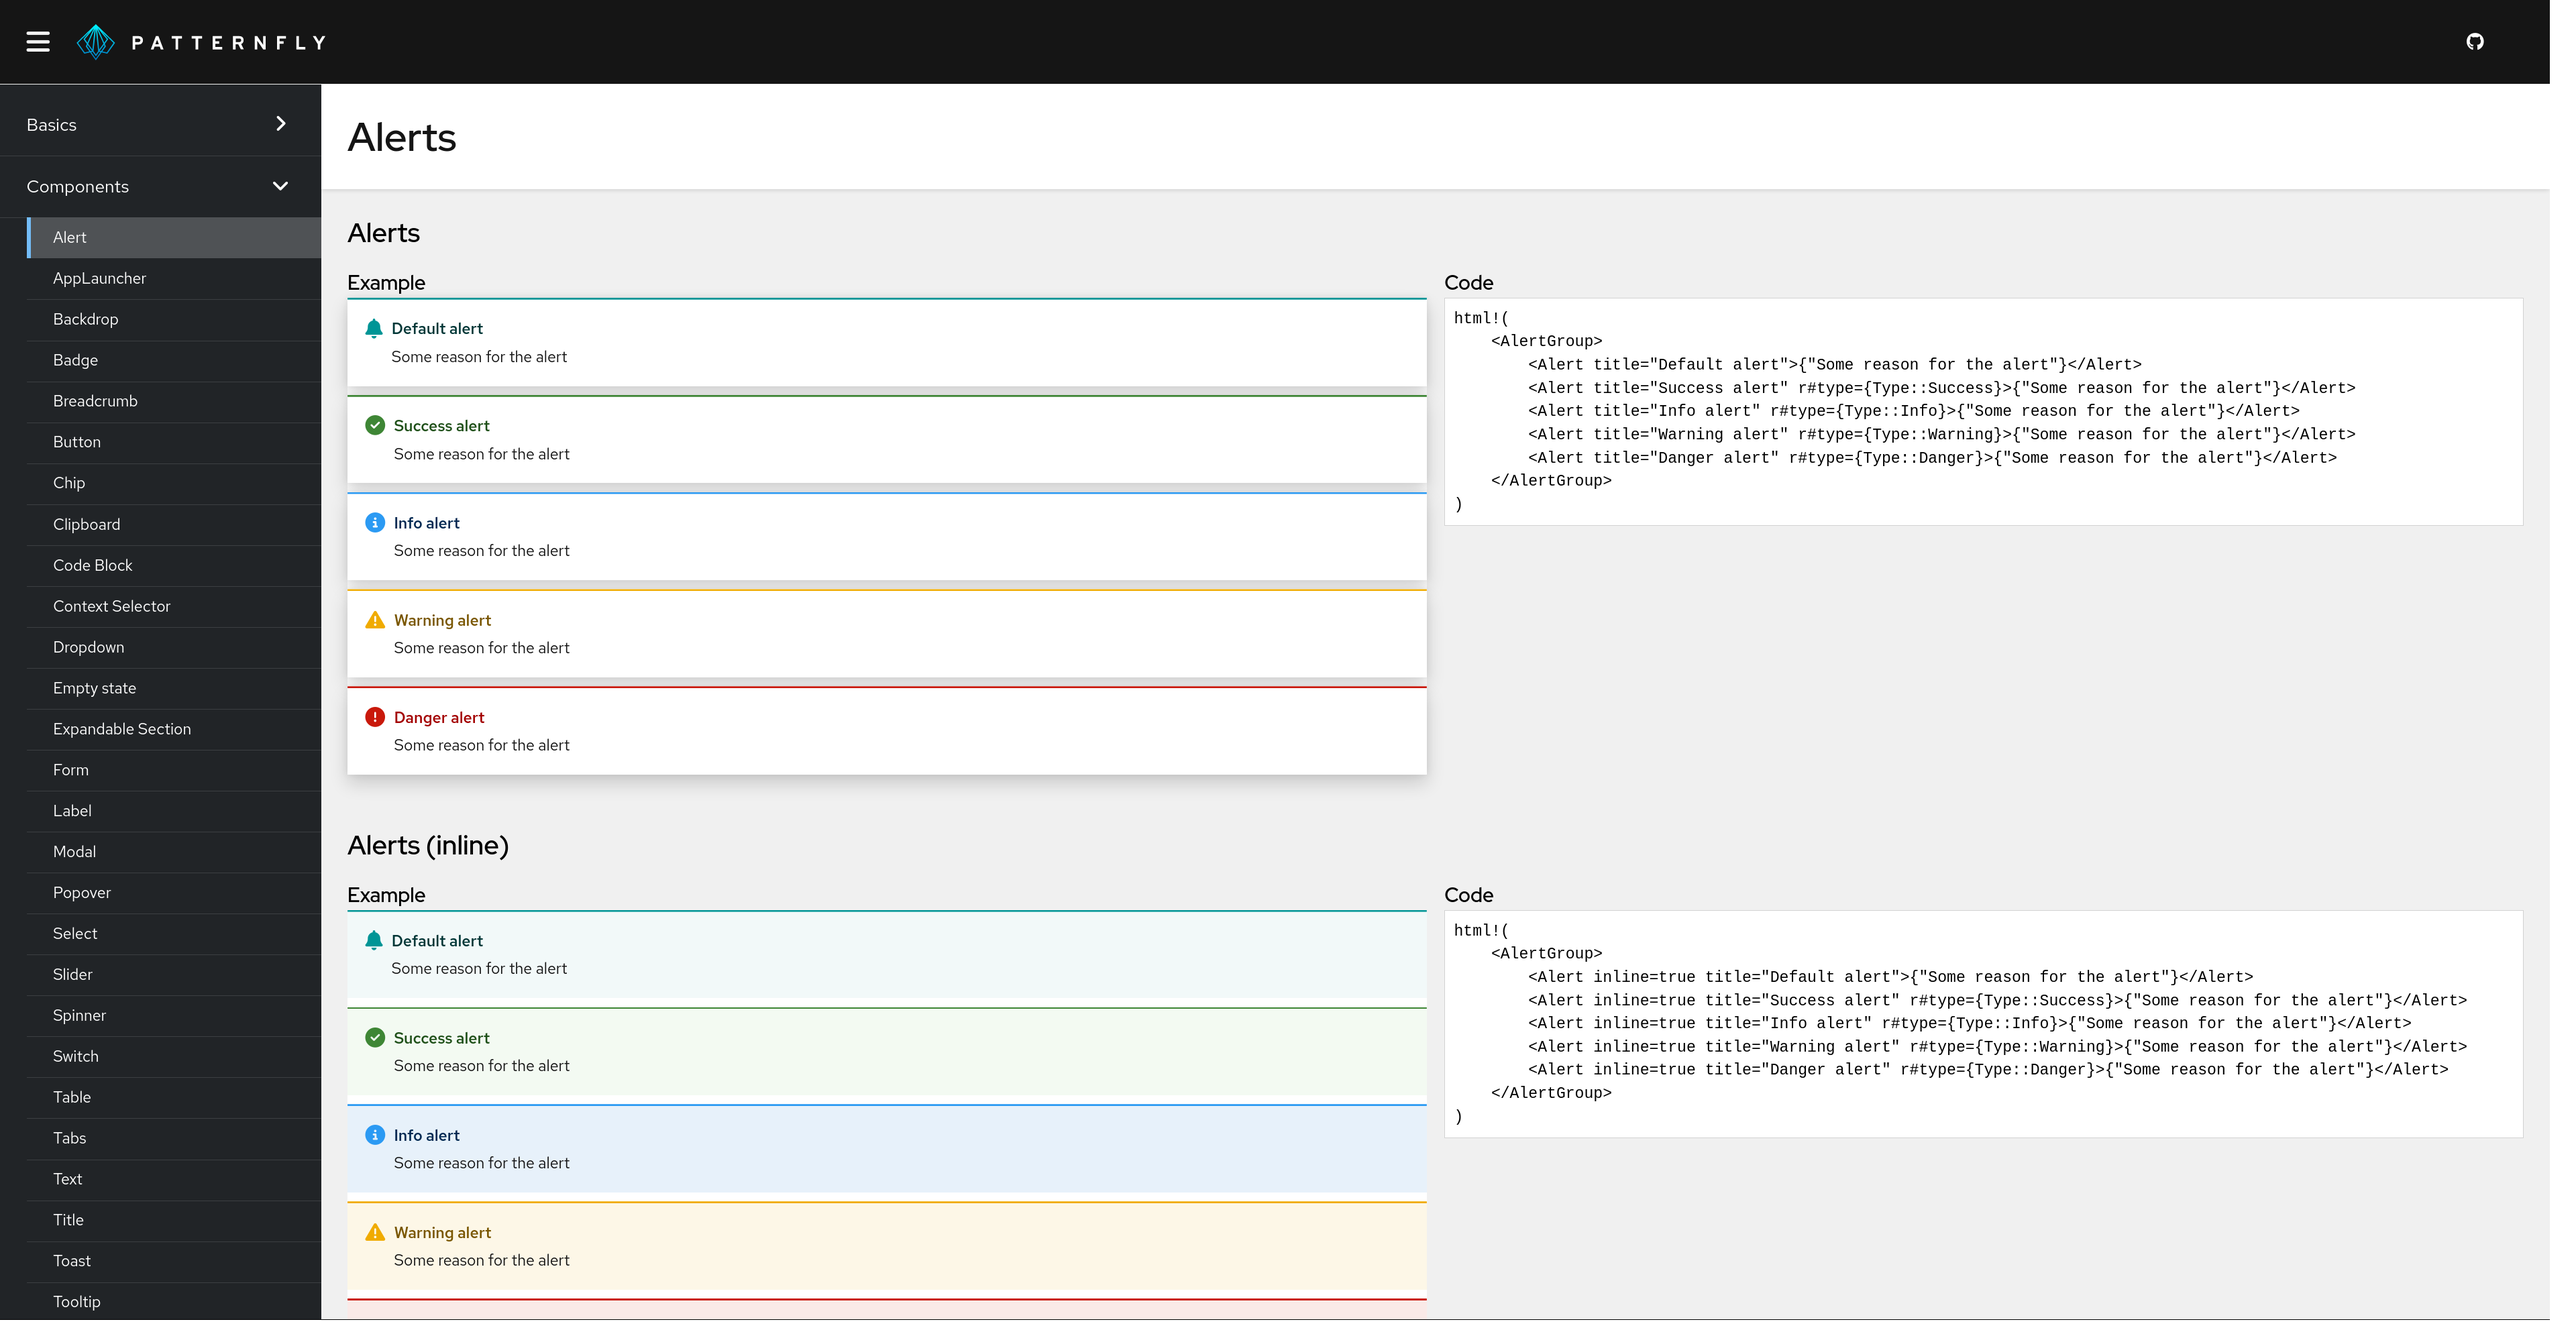
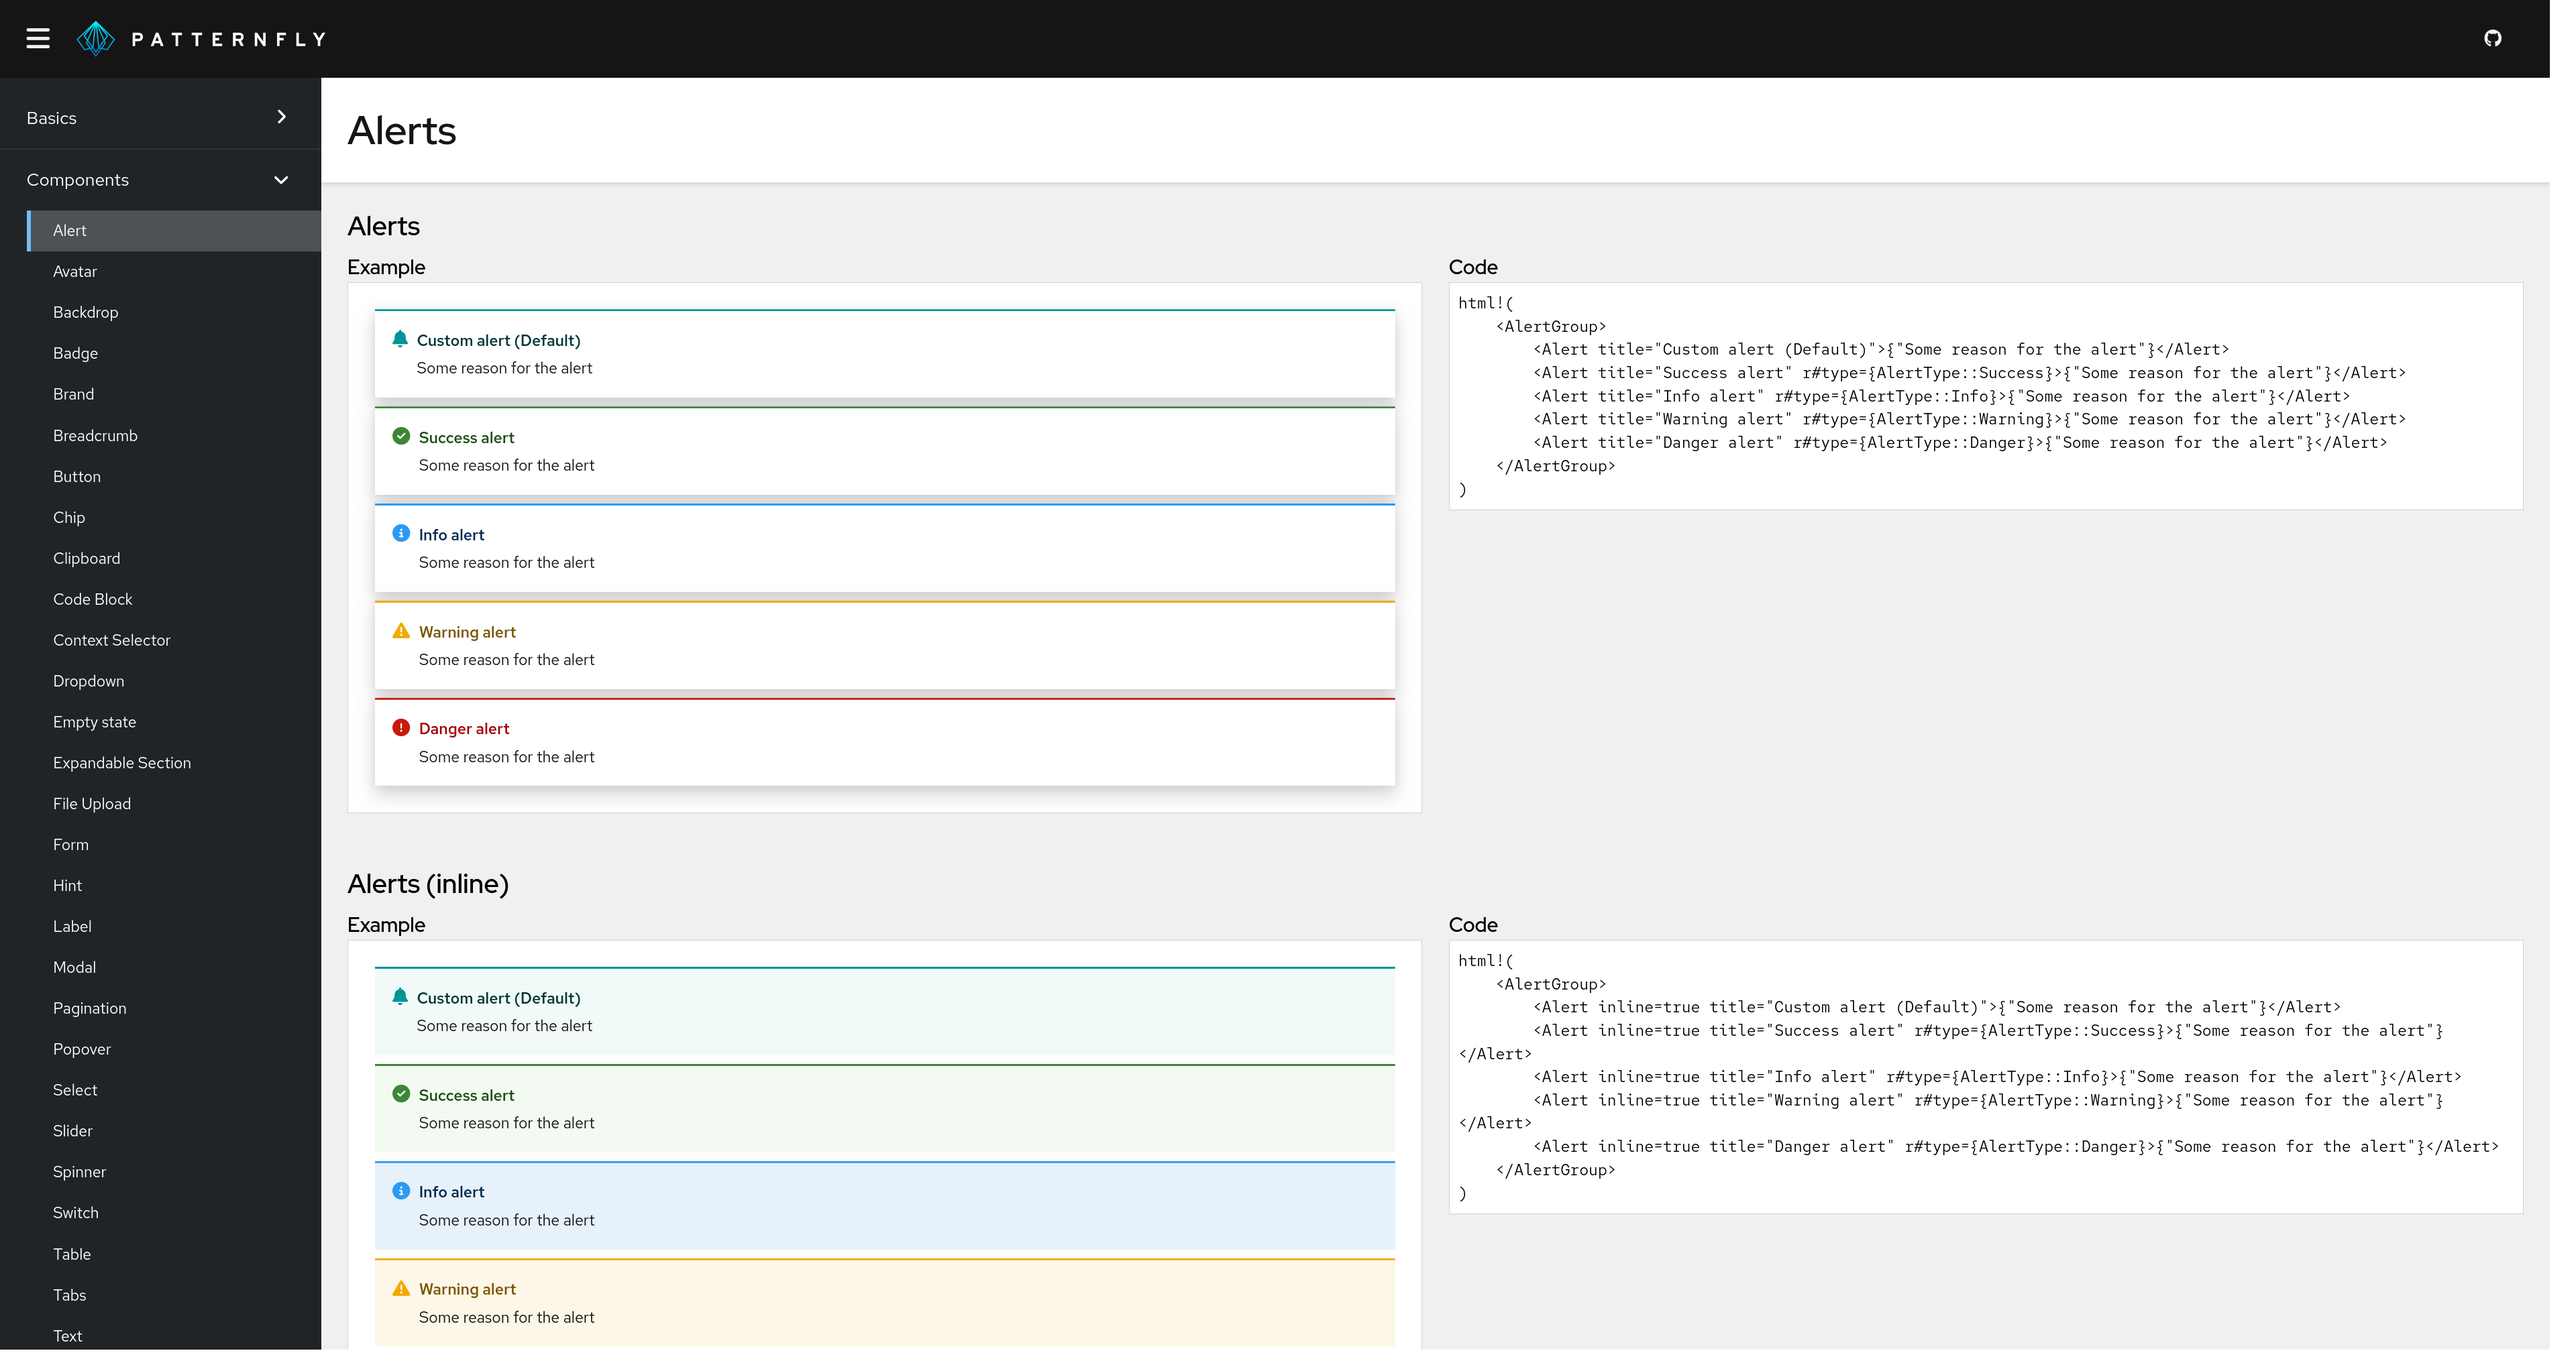
docs: aggregate breaking changes into "migration" docs

diff --git a/docs/MIGRATION-0_5.md b/docs/MIGRATION-0_5.md
@@ -1,0 +1,115 @@
+# Migrating from 0.4 to 0.5
+
+## PatternFly v5
+
+This version is based on PatternFly v5. This requires
+
+## Next versions & Deprecations
+
+All features deprecated in 0.4 have been removed. This includes:
+
+* `AppLauncher` – Deprecated by PatternFly, replaced by new menu
+* `ContextSelector` – Deprecated by PatternFly, replaced by new menu
+
+All `next` variants have replaced their original implementations.  This includes:
+
+* `Card`
+* `FormSelect`
+* `Table`
+* `TextArea`
+* `TextInput`
+* `Tree`
+* `Toolbar`
+
+## Function Components
+
+A lot of components have been migrated to function based components. Which in some cases required a breaking change.
+
+In most cases, this means that components no longer manage their state internally, and a combination of callbacks
+and hooks should be used in order to manage the state outside the component.
+
+While this requires a change to when upgrading, it also solves a bunch of "initial data" issues, where the properties
+would override a state after rendering.
+
+### TextArea & TextInput
+
+If you want to track the state of the entered data, a minimal example now looks like this:
+
+```rust
+use yew::prelude::*;
+use patternfly_yew::prelude::*;
+
+#[function_component(Example)]
+fn example() -> Html {
+  let value = use_state_eq(String::default);
+  let onchange = {
+     let value = value.clone();
+     Callback::from(move |data| value.set(data))
+  };
+
+  html!(<TextInput value={(*value).clone()}/>)
+}
+```
+
+## Table (& Tree) models
+
+Both the table and tree have seen a major overhaul of their model and rendering traits.
+
+The two bigger changes are that you now need to use a concrete type to identify columns and that it is now possible to
+externalize the expandable state from the data.
+
+The former change allows one to provide a concrete type (like an enum) to identify columns. This will be patched through
+to the rendering trait, and so you can use a proper match with enums to render the content. Eliminating the `_` match,
+which had to resolve to `html!()` for "anything else". You can still use `usize` as column key, but it is recommended
+to define an enum. While this adds another type argument, this fixes the issue that adding new columns misaligned with
+the rendering implementation.
+
+Externalizing the expansion state from the actual data should improve the performance on bigger data sets. As you can
+now use an `Rc`ed data set, without the need to convert everything to an alternate data model, storing the expansion
+state in the process.
+
+## Additional changes
+
+### Components
+
+#### About
+
+- The `About` component has been renamed to `AboutModal`
+- `brand_src` has been renamed to `brand_image_src` and is now required.
+- `brand_alt` has been renamed to `brand_image_alt` and is now required.
+- `children` is now required.
+- `title` has been renamed to `product_name`, however if it is not used `aria-label` should be used in it place.
+- `strapline` has been renamed to `trademark` and is now required.
+- `hero_style` attribute has been removed, if you were using this to set a responsive background the following code is suggested:
+    ```
+    <style>
+        {r#"
+            @media only screen and (min-width: 576px) {
+                .pf-v5-c-about-modal-box[style]  {
+                    --pf-v5-c-about-modal-box--BackgroundImage: url("https://www.patternfly.org/assets/images/pfbg_992.jpg") !important;
+                }
+            }
+            @media only screen and (min-width: 992px) {
+                .pf-v5-c-about-modal-box[style]  {
+                    --pf-v5-c-about-modal-box--BackgroundImage: url("https://www.patternfly.org/assets/images/pfbg_992@2x.jpg") !important;
+                }
+            }
+        "#}
+    </style>
+  ```
+  The position of the background has been changed, so consideration should be given to overriding these styles as well.
+
+
+#### Alert component
+
+- `AlertType::Default` has been renamed to `AlertType::Custom`
+
+#### Avatar
+
+- The `alt` attribute is now required. Previously it defaulted to :`"Avatar image"`
+
+### Layouts
+
+#### Flex
+
+`FlexModifier::Default` & `FlexModifier::None` have been removed as they were not in the PatternFly 5 spec and should not have had an effect.
